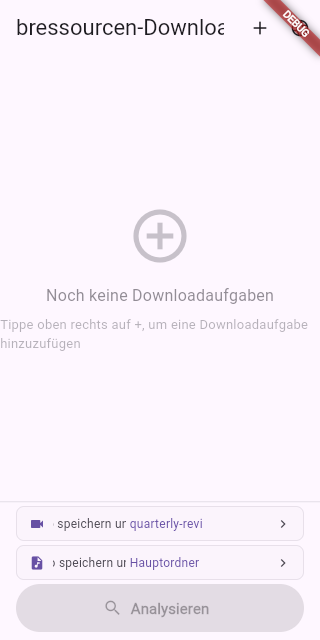
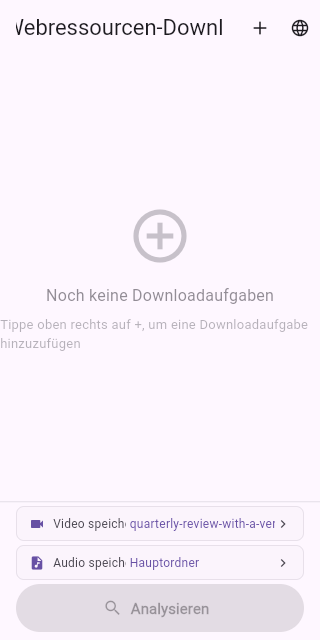
fix(catcatch): allocate more room for folder paths

diff --git a/tests/pages/catcatch_page_constrained_rows_test.dart b/tests/pages/catcatch_page_constrained_rows_test.dart
@@ -7,31 +7,33 @@ import 'package:stroom/l10n/app_localizations.dart';
 import 'package:stroom/pages/catcatch_page.dart';
 import 'package:stroom/services/manifest_database.dart';
 import 'package:stroom/utils/video_manifest.dart';
+import 'package:stroom/widgets/constrained_text.dart';
 
 Widget _testApp({
   double textScale = 1,
   ThemeMode themeMode = ThemeMode.light,
-}) => ProviderScope(
-  child: MaterialApp(
-    locale: const Locale('de', 'DE'),
-    supportedLocales: AppLocalizations.supportedLocales,
-    theme: ThemeData.light(),
-    darkTheme: ThemeData.dark(),
-    themeMode: themeMode,
-    localizationsDelegates: const [
-      AppLocalizations.delegate,
-      GlobalMaterialLocalizations.delegate,
-      GlobalWidgetsLocalizations.delegate,
-      GlobalCupertinoLocalizations.delegate,
-    ],
-    builder: (context, child) => MediaQuery(
-      data: MediaQuery.of(context)
-          .copyWith(textScaler: TextScaler.linear(textScale)),
-      child: child!,
-    ),
-    home: const CatCatchPage(),
-  ),
-);
+}) =>
+    ProviderScope(
+      child: MaterialApp(
+        locale: const Locale('de', 'DE'),
+        supportedLocales: AppLocalizations.supportedLocales,
+        theme: ThemeData.light(),
+        darkTheme: ThemeData.dark(),
+        themeMode: themeMode,
+        localizationsDelegates: const [
+          AppLocalizations.delegate,
+          GlobalMaterialLocalizations.delegate,
+          GlobalWidgetsLocalizations.delegate,
+          GlobalCupertinoLocalizations.delegate,
+        ],
+        builder: (context, child) => MediaQuery(
+          data: MediaQuery.of(context)
+              .copyWith(textScaler: TextScaler.linear(textScale)),
+          child: child!,
+        ),
+        home: const CatCatchPage(),
+      ),
+    );
 
 void main() {
   testWidgets(
@@ -67,6 +69,19 @@ void main() {
       await tester.pump(const Duration(milliseconds: 400));
 
       expect(find.text(folder), findsOneWidget);
+      final folderPath = find.byWidgetPredicate(
+        (widget) => widget is ConstrainedText && widget.data == folder,
+      );
+      final videoLabel = find.byWidgetPredicate(
+        (widget) =>
+            widget is ConstrainedText && widget.data == 'Video speichern unter',
+      );
+      expect(
+        tester.getSize(folderPath).width,
+        greaterThan(tester.getSize(videoLabel).width),
+        reason:
+            'The selected path should have room after its fixed affordances.',
+      );
       await tester.tap(find.byIcon(Icons.add));
       await tester.pump();
       await tester.drag(find.byType(Scrollable).first, const Offset(0, -300));

diff --git a/lib/pages/catcatch_page.dart b/lib/pages/catcatch_page.dart
@@ -764,6 +764,7 @@ class _CatCatchPageState extends ConsumerState<CatCatchPage> {
               ),
               const SizedBox(width: 4),
               Expanded(
+                flex: 2,
                 child: ConstrainedText(
                   currentFolder.isEmpty
                       ? _l10n.catCatchRootFolder
@@ -777,7 +778,6 @@ class _CatCatchPageState extends ConsumerState<CatCatchPage> {
                   overflow: TextOverflow.ellipsis,
                 ),
               ),
-              const Spacer(),
               Icon(
                 Icons.chevron_right,
                 size: 16,

diff --git a/tools/ci/run_flutter_test_suite.py b/tools/ci/run_flutter_test_suite.py
@@ -21,6 +21,7 @@ FUNCTIONAL_SUITES: dict[str, tuple[str, ...]] = {
         "anki/**",
         "catcatch/**",
         "pages/catcatch_page_test.dart",
+        "pages/catcatch_page_constrained_rows_test.dart",
         "pages/browser_*_test.dart",
         "browser_page_test.dart",
         "providers/catcatch_provider_test.dart",

diff --git a/docs/ui-constrained-text-qa/catcatch-rows/README.md b/docs/ui-constrained-text-qa/catcatch-rows/README.md
@@ -12,4 +12,4 @@ The motion preview uses the shared `ConstrainedText` delayed, bidirectional reve
 
 ## Verification
 
-`tests/pages/catcatch_page_test.dart` exercises the production page at 320 × 640, de-DE, and 1× text scale. It selects a long folder, confirms the fitting root state, then checks that the duration preview, task count, full folder value, and page layout remain available without a framework overflow.
+`tests/pages/catcatch_page_constrained_rows_test.dart` exercises the production page at 320 × 640, de-DE, and 1× text scale. It selects a long folder, confirms the fitting root state, then checks that the duration preview, task count, full folder value, and page layout remain available without a framework overflow. A second test checks the task count at 1.6× text scale in dark theme.
